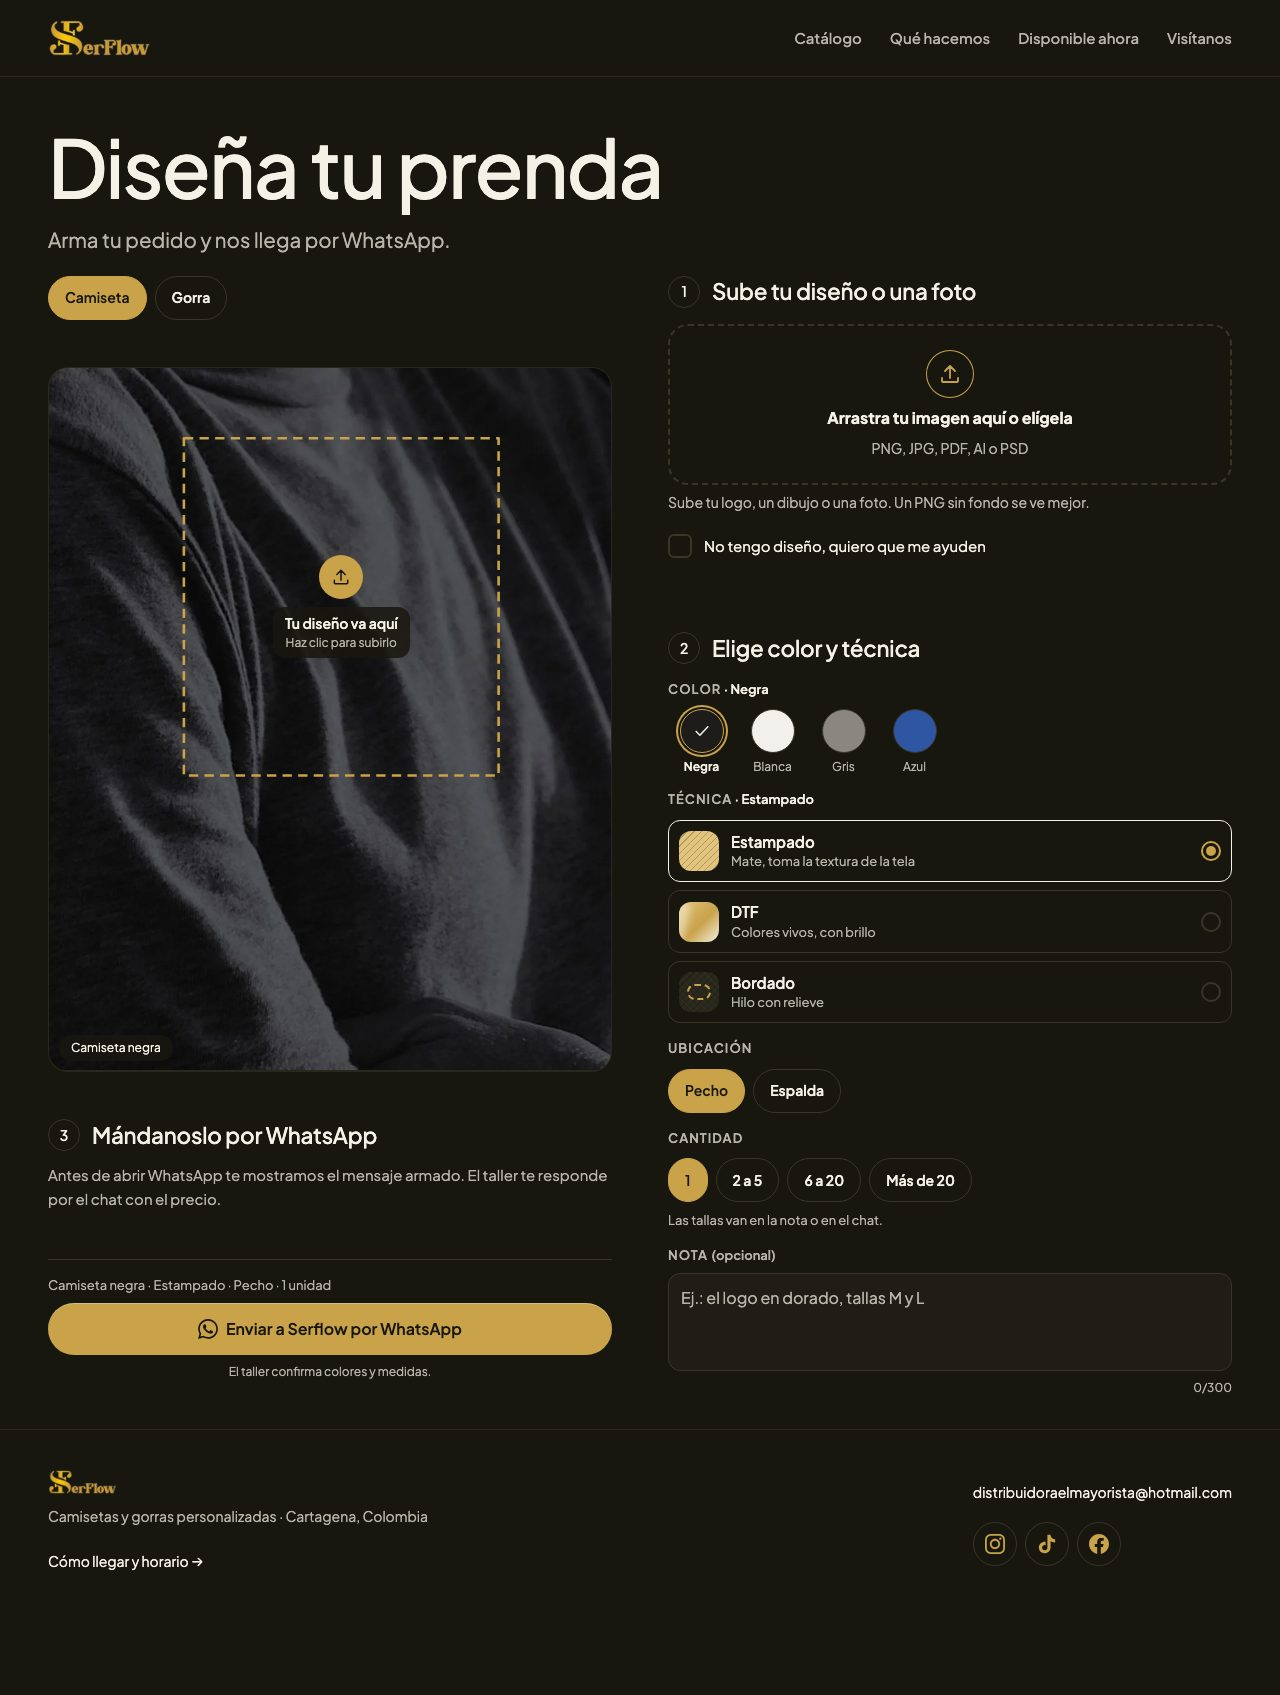
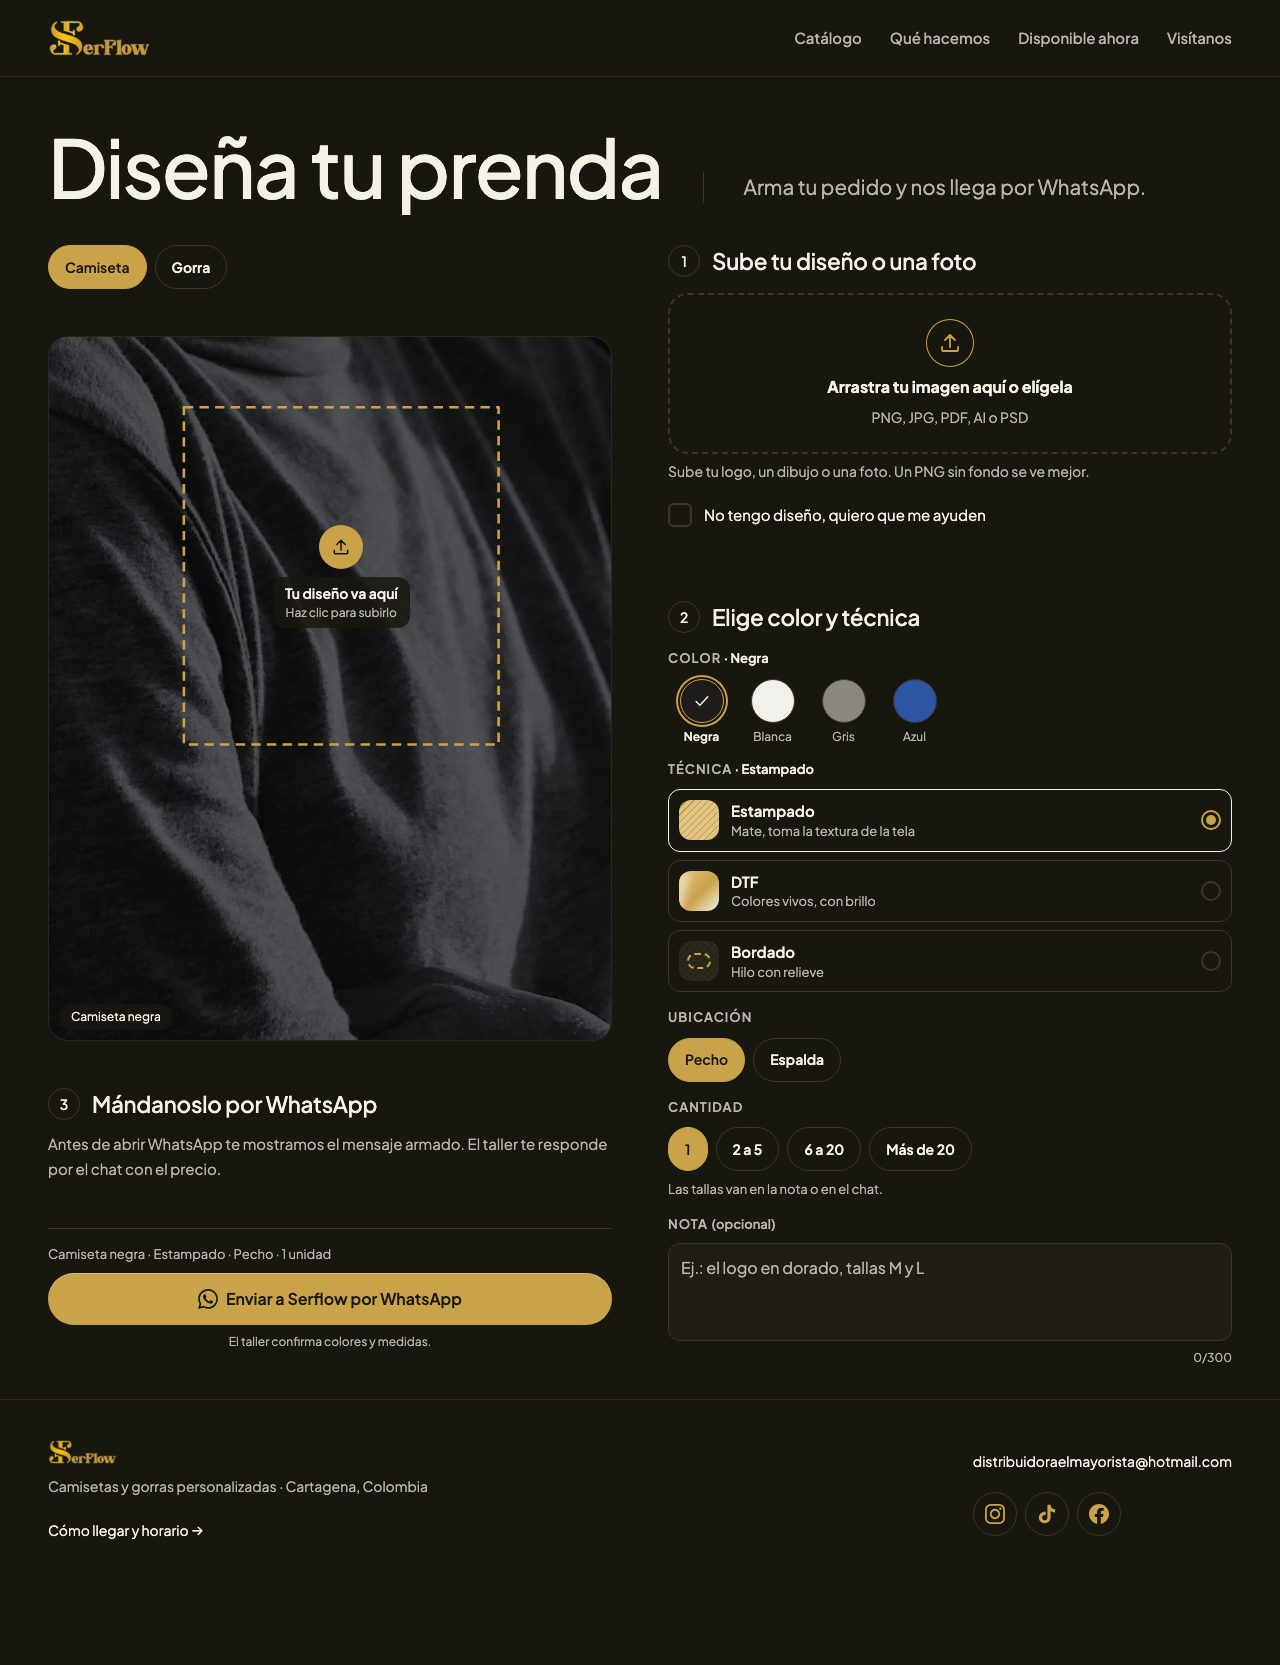
docs: PRI-286 round 5: desktop section headers as one full-width row (title | stitched lead | section action), Quienes somos map rises to the title, 404 gets See all promos, customizer recaptured

diff --git a/tempo/designs/canvases/refresh-oro-viejo/refresh-r3.css b/tempo/designs/canvases/refresh-oro-viejo/refresh-r3.css
@@ -33,12 +33,61 @@
 }
 .sf-r3 main > div.flex.flex-col:has(> div.relative.grid) { gap: 40px; }
 
-/* ---------- Cabeceras: la bajada va anclada a su título (ronda 4) ---------- */
+/* ---------- Cabeceras en una fila (ronda 5) ---------- */
 
-/* Said (ronda 3, portada y promos): "Estas letras flotando aquí no me gustan". En todas las cabeceras (Section, PromosPage,
-   NotFoundPage, CatalogPage y el personalizador) la bajada va debajo del título y de su costura, alineada a la izquierda y
-   al ancho de la columna del título (46ch, ~7 de 12 columnas a 1280). Nunca suelta a la derecha: es la regla de
-   refresh-r2.css sin la rejilla 7/5 que probó la ronda 3. No hace falta CSS nuevo. */
+/* Said (ronda 3): "Este texto flotando aquí no me gusta" (bajada suelta en la columna derecha de una rejilla 7/5). Ronda 4:
+   la bajada bajó debajo del título y dejó la mitad derecha de la cabecera vacía. Said (ronda 4): "Mejor pero ahora hay
+   espacio, no solo muevas las letras".
+   Ronda 5: en desktop la cabecera es UNA fila que ocupa todo el ancho de la sección:
+     [título con su costura] | bajada .................................. [acción de la sección]
+   La bajada va pegada al título (40 px, detrás de un filete vertical que la cose a él), con su última línea al pie del
+   título, y se estira hasta la acción o hasta el borde. La acción (Ver todo el catálogo, Ver las 24 de Beisbol, Ver todas
+   las promos) sube del pie de la sección al final de la fila. Sin bajada ni acción no queda una cabecera de solo título:
+   Quiénes somos sube el mapa hasta el título (propuesta/Portada.tsx). Mide ~40 % menos de alto que la de la ronda 4.
+   En el celular no cambia: bajada debajo del título, acción al pie.
+   Vacío residual a 1280 (de la última letra de la fila al borde): Promos ~0 (la bajada parte en tres líneas hasta el borde),
+   Qué hacemos ~470 px -> 0 (llega al borde), Disponible ahora: bajada + acción al borde, Más de: título + acción al borde,
+   404 Promos de hoy: título + Ver todas las promos al borde, personalizador ~520 -> ~90 px.
+   PUENTE: Section (prop nueva `action`; el envoltorio pasa a grid desde @3xl), PromosPage y PersonalizaPage (su cabecera,
+   misma rejilla), NotFoundPage (action="Ver todas las promos"), ViewerPage (el "Ver las N de" pasa a action). */
+@container (min-width: 48rem) {
+  .sf-r3 :is(
+      section > div.px-4 > div:has(> h2.stitch-title),
+      main > div.px-4.pb-12 > div:first-child:has(> h1.font-display + p),
+      main > div.px-4.pt-6:has(> h1.font-display + p)
+    ) {
+    display: grid;
+    grid-template-columns: auto minmax(0, 1fr) auto;
+    column-gap: 40px;
+    row-gap: 0;
+    align-items: end;
+  }
+  /* Eyebrow arriba, sola. */
+  .sf-r3 section > div.px-4 > div:has(> h2.stitch-title) > div.mb-4,
+  .sf-r3 main > div.px-4.pb-12 > div:first-child:has(> h1.font-display + p) > span:first-child { grid-row: 1; grid-column: 1 / -1; justify-self: start; margin-bottom: 16px; }
+  .sf-r3 :is(section > div.px-4 > div > h2.stitch-title, main > div.px-4.pb-12 > div:first-child > h1.font-display, main > div.px-4.pt-6 > h1.font-display) { grid-row: 2; grid-column: 1; }
+  /* La bajada: pegada al título, cosida con el filete, su última línea al pie del título (la costura mide 22 px). */
+  .sf-r3 :is(section > div.px-4 > div > h2.stitch-title + p, main > div.px-4.pb-12 > div:first-child > h1.font-display + p, main > div.px-4.pt-6 > h1.font-display + p) {
+    grid-row: 2;
+    grid-column: 2;
+    max-width: 60ch;
+    margin: 0 0 6px;
+    padding-left: 40px;
+    border-left: 1px solid var(--color-line);
+  }
+  .sf-r3 section > div.px-4 > div > h2.stitch-title + p { margin-bottom: 28px; }
+  /* El contenido de la sección, debajo de la fila; la acción sube al final de la fila. */
+  .sf-r3 section > div.px-4 > div:has(> h2.stitch-title) > div.mt-5 { display: contents; }
+  .sf-r3 section > div.px-4 > div:has(> h2.stitch-title) > div.mt-5 > * { grid-row: 3; grid-column: 1 / -1; margin-top: 28px; }
+  .sf-r3 section > div.px-4 > div:has(> h2.stitch-title) > div.mt-5 > div:last-child:not(:first-child):has(> a.rounded-full) {
+    grid-row: 2;
+    grid-column: 3;
+    margin: 0 0 22px;
+  }
+  .sf-r3 #disponible div.mt-5 > div.mt-6 { margin: 0 0 22px; }
+  /* Personalizador: sin la bajada debajo, la cabecera se separa de las columnas con su propio aire. */
+  .sf-r3 main > div.px-4.pt-6:has(> h1.font-display + p) { padding-bottom: 36px; }
+}
 
 /* ---------- Tarjetas de la portada (Said: "se pueden mejorar las cards") ---------- */
 
@@ -292,10 +341,12 @@
 .sf-r3 .sf-razones h3 { font-size: 17px; font-weight: 600; }
 .sf-r3 .sf-razones p { font-size: 15px; }
 @container (min-width: 48rem) {
-  .sf-r3 .sf-visitanos > div { height: 100%; display: flex; flex-direction: column; }
-  .sf-r3 .sf-visitanos details { flex: 1; display: flex; flex-direction: column; }
-  .sf-r3 .sf-visitanos summary { flex: 1; display: flex; flex-direction: column; }
-  .sf-r3 .sf-visitanos summary > div { flex: 1; height: auto; min-height: 160px; }
+  /* Ronda 5: grid y no flex (un <details> no reparte alto con flex): el mapa toma todo lo que sobra y la tarjeta no deja
+     superficie vacía al pie. */
+  .sf-r3 .sf-visitanos > div { height: 100%; display: grid; grid-template-rows: minmax(160px, 1fr) auto; }
+  .sf-r3 .sf-visitanos details { height: 100%; }
+  .sf-r3 .sf-visitanos summary { display: block; height: 100%; }
+  .sf-r3 .sf-visitanos summary > div { height: 100%; min-height: 160px; }
 }
 
 /* ---------- 404 en desktop: compuesta en 12 columnas (ronda 4) ---------- */

diff --git a/tempo/designs/canvases/refresh-oro-viejo/pantallas.tsx b/tempo/designs/canvases/refresh-oro-viejo/pantallas.tsx
@@ -1,5 +1,7 @@
 /// <reference types="vite/client" />
-import type { ReactElement } from "react";
+import { useLayoutEffect, useRef, useState, type ReactElement, type ReactNode } from "react";
+import { createPortal } from "react-dom";
+import { Button } from "../../../../src/components/ui/Button";
 import { BoardPortada } from "../../design-system/app-shell/BoardPortada";
 import { CategoryBanner } from "../../../../src/components/ui/CategoryBanner";
 import { CatalogPage } from "../../../../src/components/catalog/CatalogPage";
@@ -87,10 +89,33 @@ function PromoDetalle({ width, nuevo }: R) {
   );
 }
 
+/** PROPUESTA (ronda 5): "Ver todas las promos" como acción de la sección Promos de hoy de la 404 (en el PR, la prop
+ *  action de Section). Aquí entra con un portal para no tocar src/; el CSS la sube al final de la cabecera en desktop. */
+function ConAccionPromos({ children }: { children: ReactNode }) {
+  const caja = useRef<HTMLDivElement>(null);
+  const [destino, setDestino] = useState<Element | null>(null);
+  useLayoutEffect(() => setDestino(caja.current?.querySelector("#promos-de-hoy div.mt-5") ?? null), []);
+  return (
+    <div ref={caja}>
+      {children}
+      {destino &&
+        createPortal(
+          <div className="mt-6">
+            <Button variant="ghost" href="/promos">
+              Ver todas las promos →
+            </Button>
+          </div>,
+          destino,
+        )}
+    </div>
+  );
+}
+
 function NoExiste({ width, nuevo }: R) {
+  const pagina = <NotFoundPage promos={PROMOS} />;
   return (
     <Marco width={width} nuevo={nuevo}>
-      <NotFoundPage promos={PROMOS} />
+      {nuevo ? <ConAccionPromos>{pagina}</ConAccionPromos> : pagina}
     </Marco>
   );
 }
@@ -101,9 +126,9 @@ function Captura({ src, width }: { src: string; width: number }) {
 
 const NOTA_PORTADA = (
   <>
-    Sin el ticker. El personalizador va en un bloque de dos columnas (texto y pasos | foto). Tarjetas 4:5. La bajada de cada sección va
-    debajo de su título, a su mismo ancho. Quiénes somos en 12 columnas con el mapa a la altura de las razones. Ver el catálogo y Diseñar mi
-    prenda en oro viejo; Ver todo el catálogo con borde.
+    Sin el ticker. El personalizador va en un bloque de dos columnas (texto y pasos | foto). Tarjetas 4:5. Cada cabecera es una fila a
+    todo el ancho: título | bajada cosida con un filete | acción (Ver todo el catálogo sube al final de la fila). Quiénes somos en 12
+    columnas con el mapa desde el título hasta las razones. Ver el catálogo y Diseñar mi prenda en oro viejo.
   </>
 );
 const NOTA_CATALOGO = <>Rejilla pareja 4:5; la página cierra la última fila (12 aquí; 60 en producción). Chip elegido en oro viejo, chips de 48 / 52 px.</>;
@@ -119,13 +144,23 @@ const NOTA_VISOR = (
     foto con el mismo borde arriba y abajo, aire uniforme de ~30 px, sin huecos. Más de: 10 fotos, 2 filas de 5.
   </>
 );
-const NOTA_PROMOS = <>La bajada va debajo de Promos de hoy. Cada afiche termina con su texto; Pedir por WhatsApp en oro y Ver las fotos con borde, en fila.</>;
+const NOTA_PROMOS = (
+  <>
+    La cabecera es una fila a todo el ancho: Promos de hoy y, pegada a él tras un filete, la bajada en tres líneas hasta el borde (~40 % menos
+    alto, sin hueco a la derecha). Cada afiche termina con su texto; Pedir por WhatsApp en oro y Ver las fotos con borde, en fila.
+  </>
+);
 const NOTA_DETALLE = <>Afiche y Más fotos un poco más juntos (56 → 40 px).</>;
-const NOTA_404 = <>En desktop ya no va centrada con dos márgenes vacíos: texto y botones en 7 columnas, foto del taller en 5, mismo alto.</>;
+const NOTA_404 = (
+  <>
+    En desktop: texto y botones en 7 columnas, foto del taller en 5, mismo alto. Promos de hoy lleva Ver todas las promos al final de su
+    cabecera (no queda un título solo con la fila vacía).
+  </>
+);
 const NOTA_PERSONALIZADOR = (
   <>
-    /personaliza del PR #36 (sin mergear) desde su deploy preview, con el refresh inyectado. En desktop las dos columnas empiezan y terminan en el
-    mismo borde; la vista previa sigue 4:5. Prenda, ubicación y cantidad elegidas en oro viejo.
+    /personaliza del PR #36 (sin mergear) desde su deploy preview, con el refresh inyectado. Cabecera en una fila: Diseña tu prenda | la
+    bajada. En desktop las dos columnas empiezan y terminan en el mismo borde; la vista previa sigue 4:5. Elegidos en oro viejo.
   </>
 );
 

diff --git a/tempo/designs/canvases/refresh-oro-viejo/index.canvas.tsx b/tempo/designs/canvases/refresh-oro-viejo/index.canvas.tsx
@@ -27,22 +27,22 @@ export default function RefreshOroViejoCanvas() {
       <Storyboard id="Movimientos" name="Los 4 movimientos (en vivo)" component={Movimientos} layout={{ x: 1100, y: 0 }} />
       <Storyboard id="Fundamentos" name="Fundamentos: color, letra, botones, aire, tiempos" component={Fundamentos} layout={{ x: 2700, y: 0 }} />
       <Storyboard id="Cambios" name="Lista de cambios para el PR" component={Cambios} layout={{ x: 4300, y: 0 }} />
-      <Storyboard id="R3PortadaMobile" name="R4 · Portada · 390" component={PortadaMobile} layout={{ x: 0, y: 3600 }} />
-      <Storyboard id="R3PortadaDesktop" name="R4 · Portada · 1280" component={PortadaDesktop} layout={{ x: 1040, y: 3600 }} />
+      <Storyboard id="R3PortadaMobile" name="R5 · Portada · 390" component={PortadaMobile} layout={{ x: 0, y: 3600 }} />
+      <Storyboard id="R3PortadaDesktop" name="R5 · Portada · 1280" component={PortadaDesktop} layout={{ x: 1040, y: 3600 }} />
       <Storyboard id="R3CatalogoMobile" name="R4 · Catálogo categoría · 390" component={CatalogoMobile} layout={{ x: 0, y: 9100 }} />
       <Storyboard id="R3CatalogoDesktop" name="R4 · Catálogo categoría · 1280" component={CatalogoDesktop} layout={{ x: 1040, y: 9100 }} />
       <Storyboard id="R3CatalogoCierre" name="R4 · Catálogo · categoría de 10 fotos · 1280" component={CatalogoCierre} layout={{ x: 3900, y: 9100 }} />
       <Storyboard id="CierreResponsivo" name="R4 · Tarjeta de cierre · 390 / 768 / 1280" component={CierreResponsivo} layout={{ x: 6800, y: 9100 }} />
       <Storyboard id="R3VisorMobile" name="R4 · Catálogo visor · 390" component={VisorMobile} layout={{ x: 0, y: 12400 }} />
       <Storyboard id="R3VisorDesktop" name="R4 · Catálogo visor · 1280" component={VisorDesktop} layout={{ x: 1040, y: 12400 }} />
-      <Storyboard id="R3PromosMobile" name="R4 · Promos lista · 390" component={PromosMobile} layout={{ x: 0, y: 15600 }} />
-      <Storyboard id="R3PromosDesktop" name="R4 · Promos lista · 1280" component={PromosDesktop} layout={{ x: 1040, y: 15600 }} />
+      <Storyboard id="R3PromosMobile" name="R5 · Promos lista · 390" component={PromosMobile} layout={{ x: 0, y: 15600 }} />
+      <Storyboard id="R3PromosDesktop" name="R5 · Promos lista · 1280" component={PromosDesktop} layout={{ x: 1040, y: 15600 }} />
       <Storyboard id="R3DetalleMobile" name="R4 · Promo detalle · 390" component={DetalleMobile} layout={{ x: 0, y: 18500 }} />
       <Storyboard id="R3DetalleDesktop" name="R4 · Promo detalle · 1280" component={DetalleDesktop} layout={{ x: 1040, y: 18500 }} />
-      <Storyboard id="R3PersonalizadorMobile" name="R4 · Personalizador · 390" component={PersonalizadorMobile} layout={{ x: 0, y: 21600 }} />
-      <Storyboard id="R3PersonalizadorDesktop" name="R4 · Personalizador · 1280" component={PersonalizadorDesktop} layout={{ x: 1040, y: 21600 }} />
-      <Storyboard id="R3NoExisteMobile" name="R4 · 404 · 390" component={NoExisteMobile} layout={{ x: 0, y: 24800 }} />
-      <Storyboard id="R3NoExisteDesktop" name="R4 · 404 · 1280" component={NoExisteDesktop} layout={{ x: 1040, y: 24800 }} />
+      <Storyboard id="R3PersonalizadorMobile" name="R5 · Personalizador · 390" component={PersonalizadorMobile} layout={{ x: 0, y: 21600 }} />
+      <Storyboard id="R3PersonalizadorDesktop" name="R5 · Personalizador · 1280" component={PersonalizadorDesktop} layout={{ x: 1040, y: 21600 }} />
+      <Storyboard id="R3NoExisteMobile" name="R5 · 404 · 390" component={NoExisteMobile} layout={{ x: 0, y: 24800 }} />
+      <Storyboard id="R3NoExisteDesktop" name="R5 · 404 · 1280" component={NoExisteDesktop} layout={{ x: 1040, y: 24800 }} />
     </Canvas>
   );
 }

diff --git a/tempo/designs/canvases/refresh-oro-viejo/propuesta/Portada.tsx b/tempo/designs/canvases/refresh-oro-viejo/propuesta/Portada.tsx
@@ -149,22 +149,28 @@ export function Portada({ width }: { width: 390 | 1280 }) {
 
           <Disponible />
 
-          {/* El mapa al final y plegado: calles en CSS, el de Google solo al tocar. #visitanos sigue siendo el ancla del menú. */}
-          {/* Quiénes somos en 12 columnas: texto y razones en 7, Visítanos en 5, mismo borde arriba y abajo. El mapa sigue
-              plegado (calles en CSS, el de Google solo al tocar). #visitanos sigue siendo el ancla del menú. */}
-          <Section id="quienes-somos" title="Quiénes somos">
-            <div className="grid gap-10 @3xl:grid-cols-12 @3xl:items-stretch @3xl:gap-x-12">
-              <div className="flex flex-col gap-8 @3xl:col-span-7">
-                <QuienesCopy className="sf-t-lead" />
-                <div className="sf-razones flex-1">
-                  <Razones />
+          {/* Quiénes somos en 12 columnas: título, texto y razones en 7; Visítanos en 5, desde el borde de arriba del título
+              hasta el de abajo de las razones (ronda 5: sin cabecera de solo título con la mitad derecha vacía). El mapa sigue
+              plegado (calles en CSS, el de Google solo al tocar). #visitanos sigue siendo el ancla del menú. Mismo padding
+              que Section. */}
+          <section id="quienes-somos" aria-labelledby="quienes-somos-titulo" className="@container scroll-mt-4 font-body text-ink">
+            <div className="px-4 py-8 @3xl:px-12 @3xl:py-14">
+              <div className="grid gap-10 @3xl:grid-cols-12 @3xl:items-stretch @3xl:gap-x-12">
+                <div className="flex flex-col gap-7 @3xl:col-span-7">
+                  <h2 id="quienes-somos-titulo" className="stitch-title font-display font-medium leading-[1.05] tracking-[-0.01em]">
+                    Quiénes somos
+                  </h2>
+                  <QuienesCopy className="sf-t-lead" />
+                  <div className="sf-razones flex-1">
+                    <Razones />
+                  </div>
+                </div>
+                <div id="visitanos" className="sf-visitanos scroll-mt-4 @3xl:col-span-5">
+                  <MapCard title="Visítanos" />
                 </div>
               </div>
-              <div id="visitanos" className="sf-visitanos scroll-mt-4 @3xl:col-span-5">
-                <MapCard title="Visítanos" />
-              </div>
             </div>
-          </Section>
+          </section>
         </main>
       </div>
     </Marco>

diff --git a/tempo/designs/canvases/refresh-oro-viejo/comun.tsx b/tempo/designs/canvases/refresh-oro-viejo/comun.tsx
@@ -183,7 +183,7 @@ export function AntesDespues({
           </div>
         </div>
         <div>
-          <Rotulo lado="despues" detalle="refresh oro viejo · ronda 4" />
+          <Rotulo lado="despues" detalle="refresh oro viejo · ronda 5" />
           <div key={`d${vuelta}`} data-captura="despues" className={`${NUEVO} overflow-hidden rounded-tile ring-1 ring-accent/60`}>
             {despues}
           </div>
